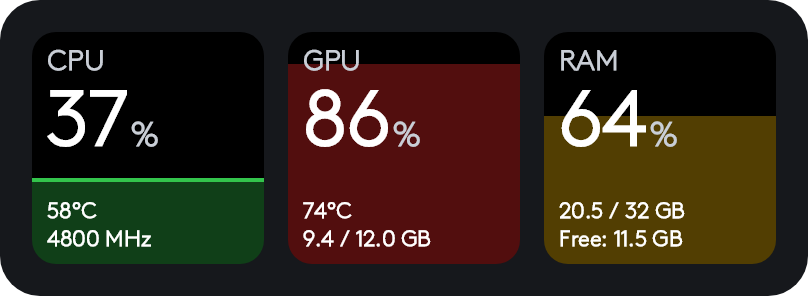
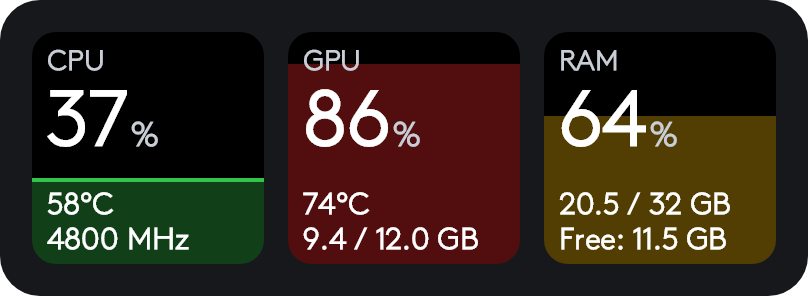
Enlarge secondary text on the new card styles (v1.3)
Temperature, clock and memory lines were hard to read on the device.
Fill, Graph, Big number, Ring and the three System cards now use larger
secondary text where the layout has room; the Classic style is unchanged.
README screenshots regenerated from the new renderer.

Changed region(s): [[0.6807, 0.6385, 0.9282, 0.8514], [0.3713, 0.6385, 0.5879, 0.8514], [0.0619, 0.6385, 0.2475, 0.8514]]

diff --git a/src/CardRenderer.cs b/src/CardRenderer.cs
@@ -145,7 +145,7 @@ namespace Loupedeck.HardwareMonitorPlugin
             // Text inside the ring stays within its inner diameter, minus a little air.
             var inner = 2f * (radius - stroke / 2f) - f.L(26);
             var loadFont = FitFont(data.LoadText, f.Font(40), inner);
-            var secondaryFont = FitFont(data.Secondary, f.Font(20), inner * 0.9f);
+            var secondaryFont = FitFont(data.Secondary, f.Font(24), inner * 0.9f);
             var gap = f.L(9);
             var blockHeight = Cap(loadFont) + gap + Cap(secondaryFont);
             var loadTop = cy - blockHeight / 2 - f.L(4);
@@ -153,7 +153,7 @@ namespace Loupedeck.HardwareMonitorPlugin
             Label(builder, data.LoadText, cx, loadTop, loadFont, White, Align.Center);
             Label(builder, data.Secondary, cx, loadTop + Cap(loadFont) + gap, secondaryFont, SecondaryColor(data), Align.Center);
 
-            var titleFont = f.Font(20);
+            var titleFont = f.Font(22);
             Label(builder, data.Title, cx, f.Y(168) - Cap(titleFont), titleFont, Gray, Align.Center);
         }
 
@@ -192,10 +192,10 @@ namespace Loupedeck.HardwareMonitorPlugin
 
             var line1 = data.TempText ?? data.Footer1;
             var line2 = data.TempText != null ? data.Footer1 : data.Footer2;
-            var line1Font = FitFont(line1, f.Font(17), right - left);
-            var line2Font = FitFont(line2, f.Font(17), right - left);
-            var line2Top = f.Y(166) - Cap(line2Font);
-            var line1Top = line2Top - f.L(9) - Cap(line1Font);
+            var line1Font = FitFont(line1, f.Font(23), right - left);
+            var line2Font = FitFont(line2, f.Font(23), right - left);
+            var line2Top = f.Y(168) - Cap(line2Font);
+            var line1Top = line2Top - f.L(10) - Cap(line1Font);
             Label(builder, line1, left, line1Top, line1Font, White, Align.Left);
             Label(builder, line2, left, line2Top, line2Font, White, Align.Left);
         }
@@ -210,7 +210,7 @@ namespace Loupedeck.HardwareMonitorPlugin
             var left = f.X(14);
             var right = f.X(166);
 
-            var titleFont = f.Font(20);
+            var titleFont = f.Font(22);
             var titleTop = f.Y(16);
             Label(builder, data.Title, left, titleTop, titleFont, Gray, Align.Left);
 
@@ -222,12 +222,12 @@ namespace Loupedeck.HardwareMonitorPlugin
             var secondaryTop = numberTop + Cap(numberFont) + f.L(14);
             if (data.TempText != null)
             {
-                var font = FitFont(data.TempText, f.Font(24), right - left);
+                var font = FitFont(data.TempText, f.Font(28), right - left);
                 Label(builder, data.TempText, left, secondaryTop, font, ColorForValue(data.TempC), Align.Left);
             }
             else
             {
-                var font = FitFont(data.Footer1, f.Font(20), right - left);
+                var font = FitFont(data.Footer1, f.Font(24), right - left);
                 Label(builder, data.Footer1, left, secondaryTop, font, White, Align.Left);
             }
 
@@ -243,7 +243,7 @@ namespace Loupedeck.HardwareMonitorPlugin
             var left = f.X(12);
             var right = f.X(168);
 
-            var titleFont = f.Font(18);
+            var titleFont = f.Font(21);
             var titleTop = f.Y(12);
             Label(builder, data.Title, left, titleTop, titleFont, Light, Align.Left);
             if (data.TempText != null)
@@ -255,7 +255,7 @@ namespace Loupedeck.HardwareMonitorPlugin
             var valueTop = titleTop + Cap(titleFont) + f.L(9);
             Label(builder, data.LoadText, left, valueTop, valueFont, White, Align.Left);
 
-            var footerFont = FitFont(data.Footer1, f.Font(15), right - left);
+            var footerFont = FitFont(data.Footer1, f.Font(20), right - left);
             var footerTop = valueTop + Cap(valueFont) + f.L(9);
             Label(builder, data.Footer1, left, footerTop, footerFont, White, Align.Left);
 
@@ -304,8 +304,8 @@ namespace Loupedeck.HardwareMonitorPlugin
             var f = new Frame(builder);
             var left = f.X(12);
             var right = f.X(168);
-            var titleFont = f.Font(18);
-            var valueFont = f.Font(20);
+            var titleFont = f.Font(20);
+            var valueFont = f.Font(22);
             var barHeight = f.L(8);
             var textHeight = Math.Max(Cap(titleFont), Cap(valueFont));
             var barGap = f.L(7);
@@ -327,7 +327,7 @@ namespace Loupedeck.HardwareMonitorPlugin
                 // The secondary value fills the gap between title and value only if it fits there.
                 var secondaryLeft = left + Measure(row.Title, titleFont) + f.L(7);
                 var secondaryRoom = right - Measure(row.LoadText, valueFont) - f.L(7) - secondaryLeft;
-                var secondaryFont = FitFont(row.Secondary, f.Font(14), secondaryRoom);
+                var secondaryFont = FitFont(row.Secondary, f.Font(18), secondaryRoom);
                 if (Measure(row.Secondary, secondaryFont) <= secondaryRoom)
                 {
                     Label(builder, row.Secondary, secondaryLeft, textBottom - Cap(secondaryFont), secondaryFont, SecondaryColor(row), Align.Left);
@@ -342,8 +342,8 @@ namespace Loupedeck.HardwareMonitorPlugin
         {
             var f = new Frame(builder);
             var centers = new[] { 38f, 90f, 142f };
-            var numberFont = f.Font(20);
-            var labelFont = f.Font(16);
+            var numberFont = f.Font(23);
+            var labelFont = f.Font(19);
             var numberTop = f.Y(16);
             var labelTop = f.Y(166) - Cap(labelFont);
             var trackTop = numberTop + Cap(numberFont) + f.L(9);
@@ -377,18 +377,18 @@ namespace Loupedeck.HardwareMonitorPlugin
         {
             var f = new Frame(builder);
             var centers = new[] { 36f, 90f, 144f };
-            var radius = f.L(20);
+            var radius = f.L(22);
             var stroke = Math.Max(2f, 6f * f.S);
             var ringOuter = 2 * radius + (Int32)Math.Ceiling(stroke);
             var columnWidth = f.L(52);
 
-            var headerFont = f.Font(15);
-            var labelFont = f.Font(13);
-            var secondaryFont = f.Font(14);
+            var headerFont = f.Font(16);
+            var labelFont = f.Font(17);
+            var secondaryFont = f.Font(19);
             foreach (var ring in rings)
             {
-                labelFont = Math.Min(labelFont, FitFont(ring.Title, f.Font(13), columnWidth - f.L(8)));
-                secondaryFont = Math.Min(secondaryFont, FitFont(ring.Secondary, f.Font(14), columnWidth));
+                labelFont = Math.Min(labelFont, FitFont(ring.Title, f.Font(17), columnWidth - f.L(8)));
+                secondaryFont = Math.Min(secondaryFont, FitFont(ring.Secondary, f.Font(19), columnWidth));
             }
 
             var headerGap = f.L(12);
@@ -416,7 +416,7 @@ namespace Loupedeck.HardwareMonitorPlugin
                 }
 
                 var number = LoadNumber(ring.LoadPercent);
-                var numberFont = FitFont(number, f.Font(15), numberRoom, 7);
+                var numberFont = FitFont(number, f.Font(18), numberRoom, 7);
                 Label(builder, number, cx, cy - Cap(numberFont) / 2, numberFont, White, Align.Center);
                 Label(builder, ring.Title, cx, labelTop, labelFont, Gray, Align.Center);
                 Label(builder, ring.Secondary, cx, secondaryTop, secondaryFont, SecondaryColor(ring), Align.Center);
